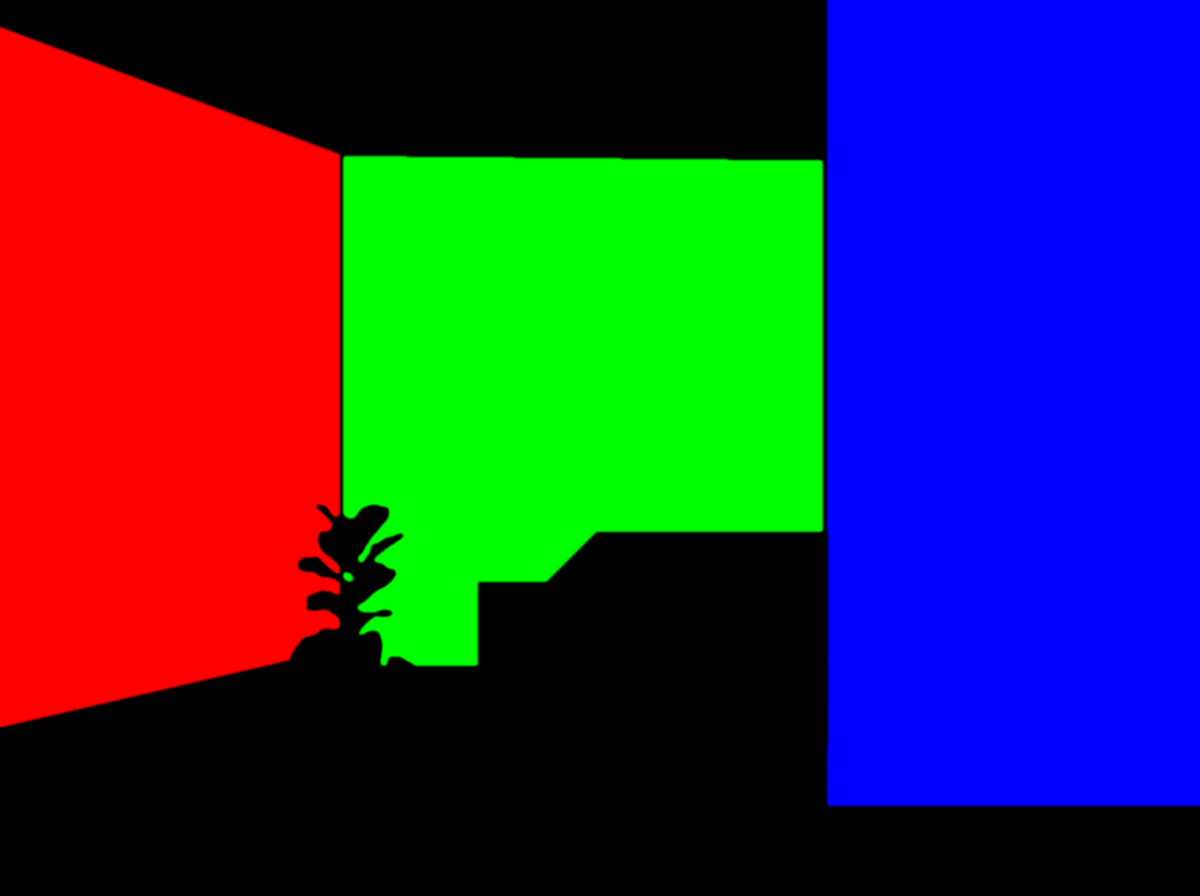
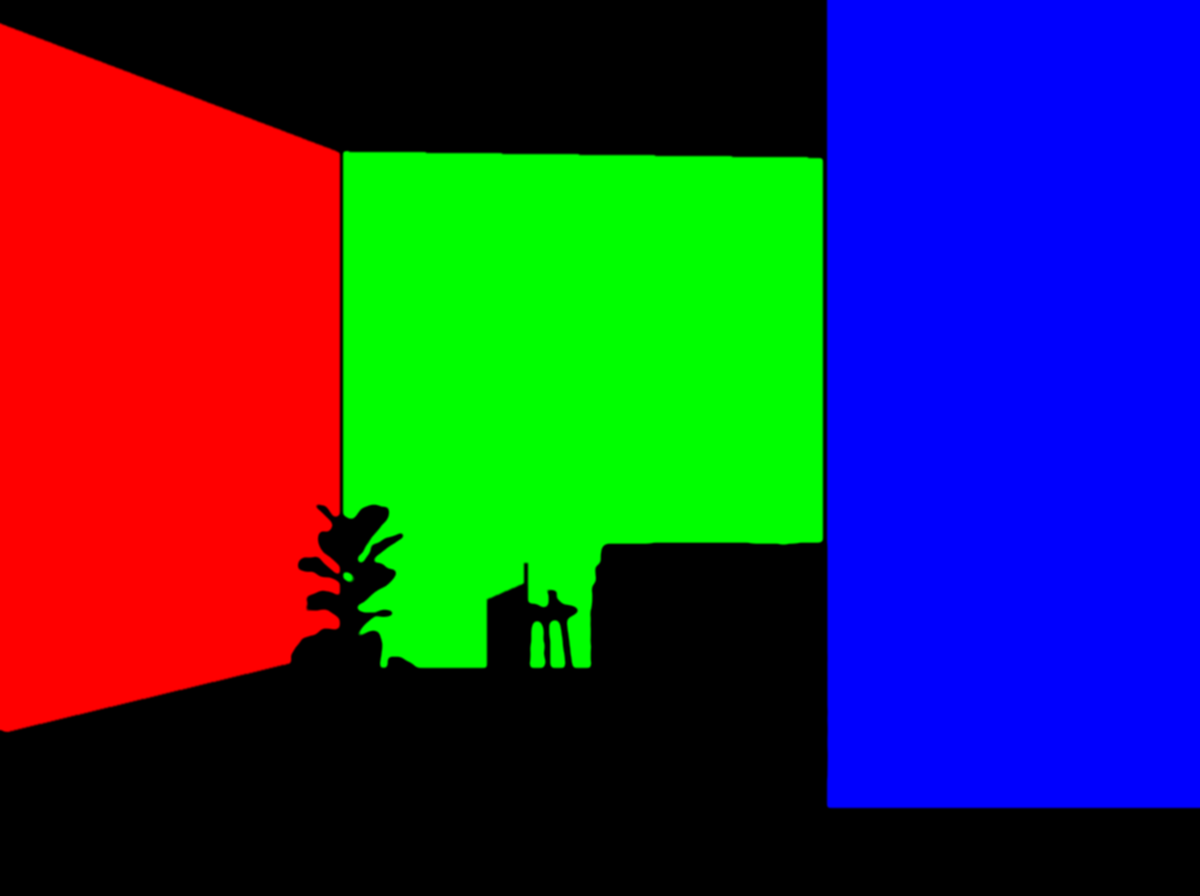
pinta el teu espai

diff --git a/src/scripts/paint-tool/index.ts b/src/scripts/paint-tool/index.ts
@@ -39,14 +39,23 @@ const TOOL_RADIUS: Record<Exclude<ToolName, 'rellenar'>, number> = {
 const MAX_USER_REGIONS = 4;
 
 /**
- * Las tres paredes de la sala, cada una en un canal de la máscara
- * (ver scripts/build-wall-masks.mjs). El orden manda en el selector de zonas.
+ * Las cuatro zonas pintables de la sala (ver scripts/build-wall-masks.mjs).
+ * El orden manda en el selector de zonas.
+ *
+ * Las tres paredes viajan en un PNG en color, una por canal. El techo va en un
+ * archivo aparte: no cabe en un cuarto canal porque el alfa se lleva por
+ * delante el RGB de los otros tres al dibujar el PNG en un lienzo.
+ *
+ * `combo` dice qué color de una combinación le toca a cada zona. El tercero es
+ * siempre el tono claro, y lo comparten tabique y techo: son los dos planos de
+ * cierre, y en obra se pintan juntos precisamente por eso.
  */
-const WALLS = [
-  { id: 'w-izq', label: 'Pared izquierda', channel: 0 as const },
-  { id: 'w-fondo', label: 'Pared del fondo', channel: 1 as const },
-  { id: 'w-tabique', label: 'Tabique derecho', channel: 2 as const },
-];
+const ZONES = [
+  { id: 'z-izq', label: 'Pared izquierda', mask: 'walls', channel: 0 as const, combo: 0 },
+  { id: 'z-fondo', label: 'Pared del fondo', mask: 'walls', channel: 1 as const, combo: 1 },
+  { id: 'z-tabique', label: 'Tabique derecho', mask: 'walls', channel: 2 as const, combo: 2 },
+  { id: 'z-techo', label: 'Techo', mask: 'ceiling', channel: 0 as const, combo: 2 },
+] as const;
 
 export async function initPaintTool(): Promise<void> {
   const section = document.getElementById('pinta');
@@ -54,6 +63,7 @@ export async function initPaintTool(): Promise<void> {
 
   const photoUrl = section.dataset.photo!;
   const maskUrl = section.dataset.mask!;
+  const ceilingUrl = section.dataset.maskCeiling!;
   const W = Number(section.dataset.w);
   const H = Number(section.dataset.h);
 
@@ -77,13 +87,15 @@ export async function initPaintTool(): Promise<void> {
 
   // ── Carga ───────────────────────────────────────────────────────────────
   let photo: HTMLImageElement;
-  let wallShapes: HTMLCanvasElement[];
+  let zoneShapes: HTMLCanvasElement[];
   let luma: LumaMap;
   try {
-    const [p, m] = await Promise.all([loadImage(photoUrl), loadImage(maskUrl)]);
+    const [p, m, c] = await Promise.all([
+      loadImage(photoUrl), loadImage(maskUrl), loadImage(ceilingUrl),
+    ]);
     photo = p;
     luma = buildLumaMap(p, W, H);
-    wallShapes = WALLS.map((wall) => maskToAlpha(m, W, H, wall.channel));
+    zoneShapes = ZONES.map((z) => maskToAlpha(z.mask === 'walls' ? m : c, W, H, z.channel));
   } catch {
     loading.textContent = 'No se ha podido cargar la herramienta.';
     return;
@@ -106,14 +118,14 @@ export async function initPaintTool(): Promise<void> {
   function makePaintCanvas(): HTMLCanvasElement { return makeCanvas(paintW, paintH); }
 
   function seed(): void {
-    regions = WALLS.map((wall, i) => {
-      const r = makeRegion(wall.id, wall.label, 'pared', wallShapes[i]!, luma);
+    regions = ZONES.map((z, i) => {
+      const r = makeRegion(z.id, z.label, 'pared', zoneShapes[i]!, luma);
       r.paint = makePaintCanvas();
       return r;
     });
     // Arranca seleccionada la del fondo: es la más grande y la que primero
     // mira todo el mundo.
-    selectedId = 'w-fondo';
+    selectedId = 'z-fondo';
     nextId = 1;
     rebuildIdMap();
   }
@@ -477,15 +489,18 @@ export async function initPaintTool(): Promise<void> {
     debe devolverle la sala anterior entera, no dejarle dos paredes a medias.
   */
   function applyCombo(colors: string[], btn: HTMLElement): void {
-    const walls = regions.filter((r) => r.kind === 'pared');
-    walls.forEach((r, i) => {
-      const hex = colors[i];
+    const zonas = regions.filter((r) => r.kind === 'pared');
+    zonas.forEach((r, i) => {
+      // Cada zona toma el color que le asigna ZONES: tabique y techo comparten
+      // el tercero, el claro.
+      const hex = colors[ZONES[i]?.combo ?? i];
       if (!hex) return;
       cloneForWrite(r);
       r.color = hex;
       fillRegion(r);
     });
-    currentColor = colors[walls.findIndex((r) => r.id === selectedId)] ?? currentColor;
+    const iSel = zonas.findIndex((r) => r.id === selectedId);
+    currentColor = colors[ZONES[iSel]?.combo ?? 0] ?? currentColor;
     document.querySelectorAll('.combo-btn.active').forEach((b) => b.classList.remove('active'));
     document.querySelectorAll('.swatch-cell.active').forEach((c) => c.classList.remove('active'));
     btn.classList.add('active');

diff --git a/docs/CONTENIDO.md b/docs/CONTENIDO.md
@@ -67,9 +67,12 @@ Tamaño recomendado: 1400 px de ancho como mínimo. Astro genera el resto.
 
 `sala-tres-paredes.jpg` es especial: no es una foto de banco ni una obra real,
 sino una sala hecha a medida para la herramienta, con tres planos de pared
-limpios y muebles bajos que casi no tapan. Lleva asociadas TRES máscaras —una
-por pared— que viajan juntas en `public/room/sala-paredes.png`, una por canal
-de color (R = izquierda, G = fondo, B = tabique).
+limpios y muebles bajos que casi no tapan. Lleva asociadas CUATRO máscaras:
+las tres paredes viajan juntas en `public/room/sala-paredes.png`, una por canal
+de color (R = izquierda, G = fondo, B = tabique), y el techo va aparte en
+`public/room/sala-techo.png`, en escala de grises — el canal alfa no sirve como
+cuarto canal porque al dibujar el PNG en un lienzo se lleva por delante el RGB
+de los otros tres.
 
 Si se cambia la foto hay que **recalibrar** las máscaras:
 
@@ -78,10 +81,16 @@ node scripts/build-wall-masks.mjs --debug
 ```
 
 y ajustar las constantes del principio de ese archivo —los polígonos de cada
-pared, los muebles que la tapan y los umbrales de color, que van por pared
-porque la luz cae mucho de izquierda a derecha— mirando
-`public/room/_debug-paredes.jpg`, que pinta cada pared de un color. El propio
-script explica el método y de dónde sale cada medida.
+zona, los muebles que la tapan y los umbrales de color, que van por zona porque
+la luz cae mucho de izquierda a derecha— mirando `public/room/_debug-paredes.jpg`,
+que pinta cada zona de un color. El propio script explica el método y de dónde
+sale cada medida.
+
+Con `--audit` genera además `public/room/_audit-paredes.jpg`, que pinta de
+**amarillo lo que está dentro del plano y se ha quedado sin máscara**: es la
+vista a mirar cuando "hay trozos que no se pintan". Ojo al leerla: los muebles
+que se recortan por umbral (el sofá) salen amarillos y eso es correcto, no un
+fallo — lo que hay que buscar son manchas amarillas sobre pared lisa.
 
 La foto vieja del salón de ladrillo (`salon.jpg` + `salon-mask.png` +
 `scripts/build-wall-mask.mjs`, en singular) sigue en el repositorio por si se

diff --git a/README.md b/README.md
@@ -85,7 +85,7 @@ Dos utilidades que sólo hay que lanzar si cambia la sala de la herramienta o
 el logotipo:
 
 ```bash
-node scripts/build-wall-masks.mjs --debug  # máscaras de las tres paredes
+node scripts/build-wall-masks.mjs --debug  # máscaras de las 3 paredes y el techo
 node scripts/build-social-images.mjs       # og.png y apple-touch-icon.png
 ```
 
